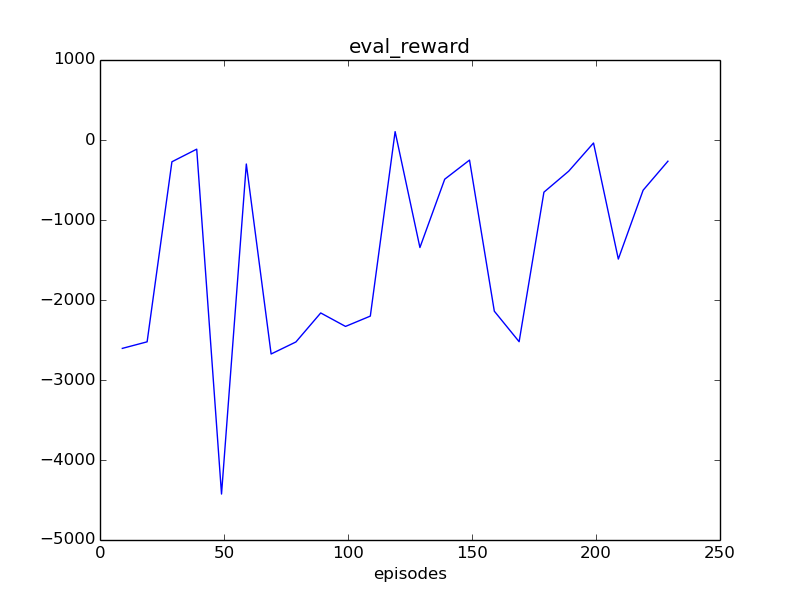
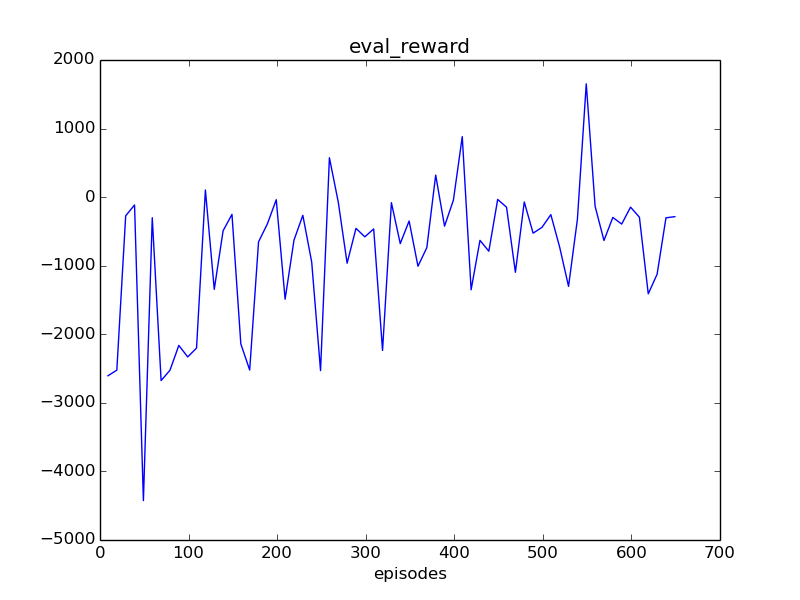
demo 1-5

diff --git a/out/experiments/005/report/report.html b/out/experiments/005/report/report.html
@@ -1,3 +1,3 @@
 <HTML><BODY><H1>Report</H1>
 <h2>Diagramms</h2>
-<image width=500 src='train_reward.png'><image width=500 src='train_noise.png'><image width=500 src='train_qmax.png'></BODY></HTML>
+<image width=500 src='eval_reward.png'><image width=500 src='train_reward.png'><image width=500 src='train_noise.png'><image width=500 src='train_qmax.png'></BODY></HTML>

diff --git a/demo_002.py b/demo_002.py
@@ -5,6 +5,7 @@ from core.ddpg_mind import DdpgMind
 from core.demo_procedure import DemoProc
 from core.experiment import Experiment
 from core.mujoco_agent import MujocoAgent
+from core.reporter import Reporter
 from core.tensorflow_platform import TensorflowPlatform
 from env.tentacle_world import TentacleWorld
 from env.tentacle_reward import default_reward
@@ -16,14 +17,15 @@ def train_mujoco_tentacle_world():
         'episodes': 10000,
         'steps': 75,
 
-        'env.model_dir': "out/tmp/",
+        'exp.base_path': "./out/experiments",
+
         'env.world_path': "env/assets/tentacle_world.xml",
         'env.agent_path': "env/assets/tentacle_agent.xml",
         'env.target_location_method': random_target,
         'env.reward_method': default_reward,
     }
 
-    demo_proc = DemoProc(TensorflowPlatform, TentacleWorld, MujocoAgent, DdpgMind)
+    demo_proc = DemoProc(TensorflowPlatform, TentacleWorld, MujocoAgent, DdpgMind, Reporter)
     experiment = Experiment("002.demo", demo_proc, init_from="002")
     experiment.start()
 

diff --git a/train_005.py b/train_005.py
@@ -28,7 +28,7 @@ def train_mujoco_tentacle_world():
         'env.reward_method': default_reward,
 
         'alg.batch_size': 640,
-        'alg.buffer_size': 3e5,
+        'alg.buffer_size': 1e5,
         'alg.noise_sigma': .1,
         'alg.noise_theta': .01,
         'alg.noise_rate_method': staircase_5,
